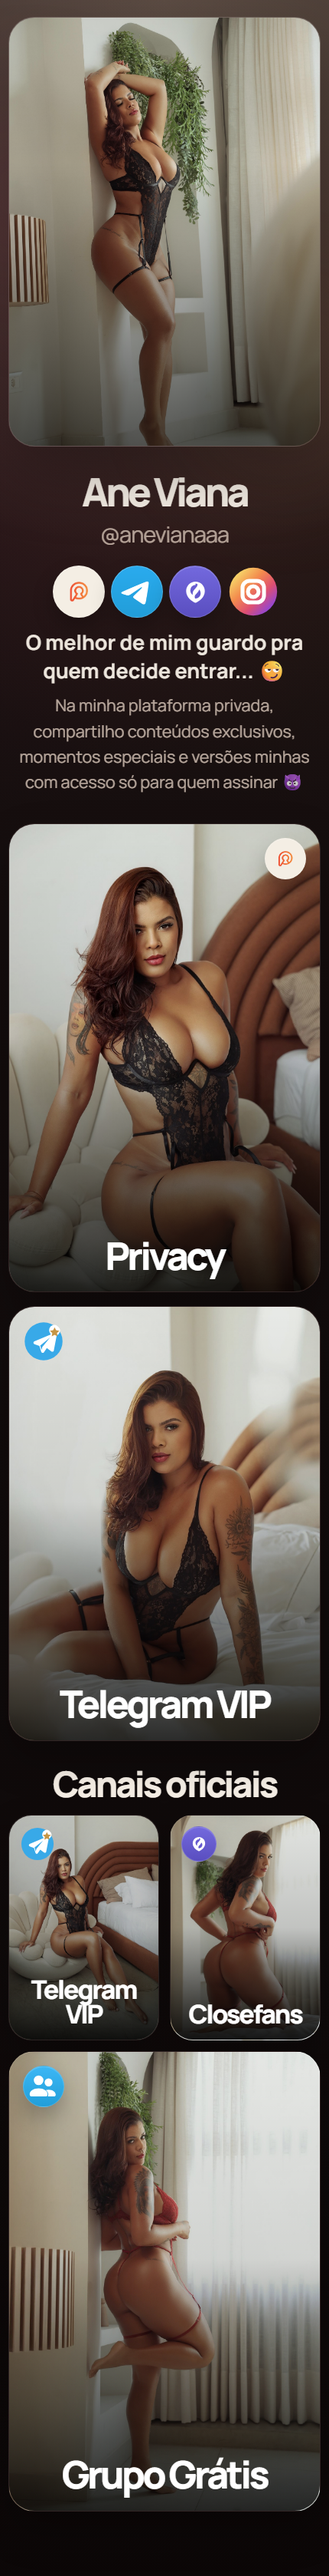
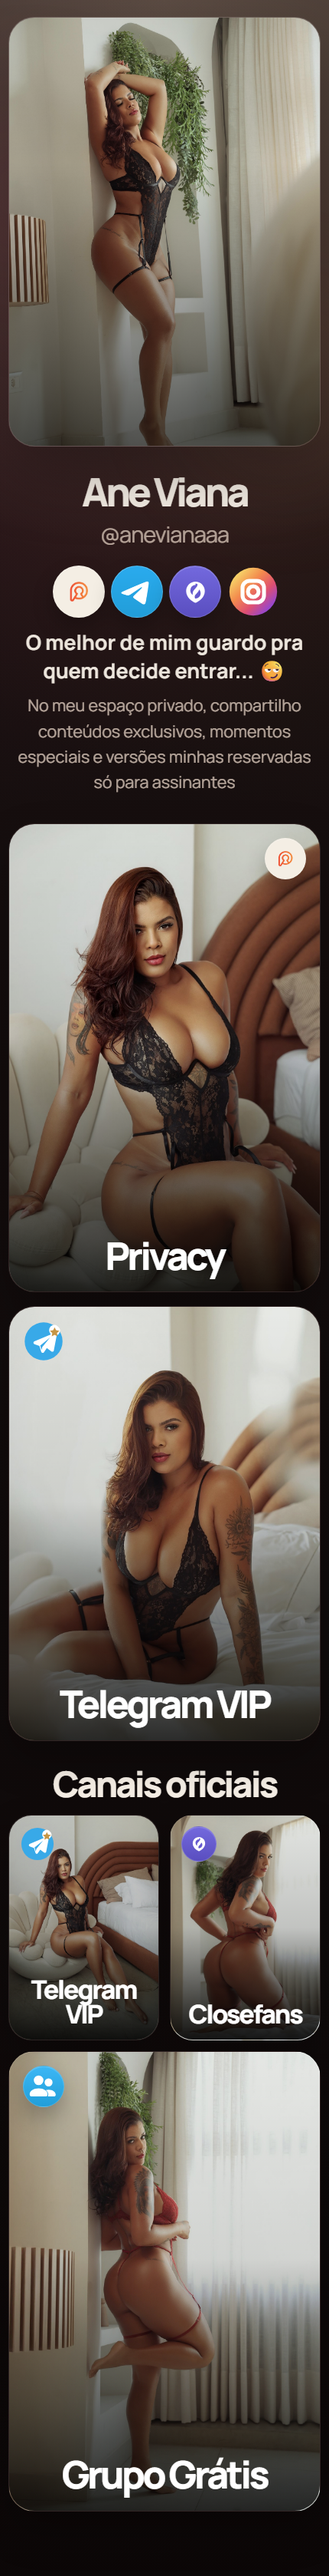
Refine variation 6 private copy

Changed region(s): [[0.0605, 0.2478, 0.9372, 0.3098]]

diff --git a/public/index.html b/public/index.html
@@ -1468,7 +1468,7 @@
 
         <div class="intro-copy" aria-label="Descricao do conteudo da Ane">
           <p class="intro intro--lead">O melhor de mim guardo pra quem decide entrar... &#128527;</p>
-          <p class="intro intro--body">Na minha plataforma privada, compartilho conte&uacute;dos exclusivos, momentos especiais e vers&otilde;es minhas com acesso s&oacute; para quem assinar &#128520;</p>
+          <p class="intro intro--body">No meu espa&ccedil;o privado, compartilho conte&uacute;dos exclusivos, momentos especiais e vers&otilde;es minhas reservadas s&oacute; para assinantes</p>
         </div>
       </section>
 

diff --git a/variation-6.html b/variation-6.html
@@ -1468,7 +1468,7 @@
 
         <div class="intro-copy" aria-label="Descricao do conteudo da Ane">
           <p class="intro intro--lead">O melhor de mim guardo pra quem decide entrar... &#128527;</p>
-          <p class="intro intro--body">Na minha plataforma privada, compartilho conte&uacute;dos exclusivos, momentos especiais e vers&otilde;es minhas com acesso s&oacute; para quem assinar &#128520;</p>
+          <p class="intro intro--body">No meu espa&ccedil;o privado, compartilho conte&uacute;dos exclusivos, momentos especiais e vers&otilde;es minhas reservadas s&oacute; para assinantes</p>
         </div>
       </section>
 
